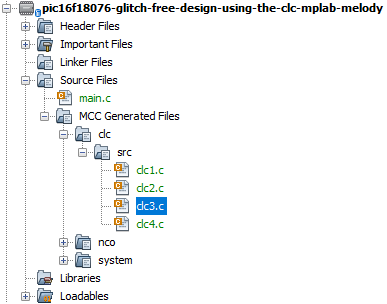
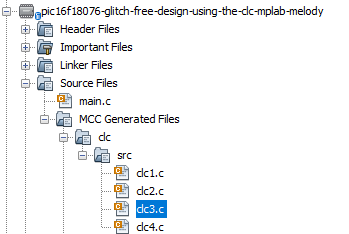
MPAE-14630: Updated Readme, images, and code

Changed region(s): [[0.0, 0.0, 1.0, 1.0]]

diff --git a/main.c b/main.c
@@ -32,50 +32,38 @@
 */
 #include "mcc_generated_files/system/system.h"
 
-void wait_initialize(void)
-{
-    NCO1ACCL = 0x00; //Clear NCO accumulator
-    NCO1ACCH = 0x00;
-    NCO1ACCU = 0x00;
-    PIR2bits.CLC2IF = 0; //Clear CLC2 Interrupt Flag
-    NCO1CONbits.EN = 1; // Enable NCO Module
-}
-/*
-    Main application
-*/
-
 int main(void)
 {
     SYSTEM_Initialize();
     
-    NCO1CONbits.EN = 0;  //Disable NCO module
+    NCO1CONbits.EN = 0;  //disable NCO module
         
-    NCO1INCU = 0x0F;
-    NCO1INCH = 0xFF;
-    NCO1INCL = 0xFF;     //set NCO increment to 0x0FFFFF, or 1048575
-    // If using interrupts in PIC18 High/Low Priority Mode you need to enable the Global High and Low Interrupts 
-    // If using interrupts in PIC Mid-Range Compatibility Mode you need to enable the Global and Peripheral Interrupts 
-    // Use the following macros to: 
-
-    // Enable the Global Interrupts 
-    //INTERRUPT_GlobalInterruptEnable(); 
-
-    // Disable the Global Interrupts 
-    //INTERRUPT_GlobalInterruptDisable(); 
-
-    // Enable the Peripheral Interrupts 
-    //INTERRUPT_PeripheralInterruptEnable(); 
-
-    // Disable the Peripheral Interrupts 
-    //INTERRUPT_PeripheralInterruptDisable(); 
-
+    NCO1INCU = 0x00;
+    NCO1INCH = 0x00;
+    NCO1INCL = 0x01;     //set increment to 0x000001, or 1
+    
     while(1)
     {
-        wait_initialize();
-        if (PIR2bits.CLC2IF == 1){ // 3 instruction sets (12 clk pulses)... 1 for selecting register, 2 for if statement
-            LATAbits.LATA6 = 1;
-            NCO1CONbits.EN = 0; // 2 instruction sets (8 clk pulses)
-//            wait_for_pulse();
-        }
+        //wait initialize
+        NCO1ACCL = 0x00; 
+        NCO1ACCH = 0x00; 
+        NCO1ACCU = 0x00;  //clear accumulator
+
+        NCO1CONbits.EN = 1; //enable NCO module
+        PIR2bits.CLC2IF = 0; //clear CLC2IF interrupt flag
+        
+        //wait for pulse
+        while(!PIR2bits.CLC2IF); //wait until interrupt flag is set
+            //save accumulator value
+            int8_t result2 = NCO1ACCU; 
+            int8_t result1 = NCO1ACCH;
+            int8_t result0 = NCO1ACCL;
+
+            //process accumulator values to make a 20-bit value
+            int24_t measurement = ((int24_t)result2 << 16); 
+            measurement = measurement + ((int16_t)result1 << 8);
+            measurement = measurement + result0;
+
+        NCO1CONbits.EN = 0; //disable NCO module
     }    
 }

diff --git a/README.md b/README.md
@@ -24,7 +24,7 @@ This example shows how to configure the Configurable Logic Cell (CLC) Peripheral
 ## Hardware Used
 - PIC16F18076 Curiosity Nano [(DM182029)](https://www.microchip.com/Developmenttools/ProductDetails/DM182029) <!-- update this line to have the correct DM number and the correct link to that -->
 <!-- Should I include the Saleae since it can be used to verify if the example works? -->
-<!-- Should I include the scope since it can be used to verify id the example works? -->
+<!-- Should I include the scope since it can be used to verify if the example works? -->
 
 ## Setup
 The hardware for this code example is just the PIC16F18076 Curiosity Nano Board since it has the NCO and CLC modules that are required. Figure 1 shows how to create the Glitch-Free signal by using CLC1, CLC2, and CLC3.  CLC4 will be passing through the system clock.  Most of the setup will be done through the MPLABX and Melody interfaces. 
@@ -259,21 +259,67 @@ Then open up the file.  On line 62, update the value from 0x0 to 0x4 as shown in
 
 #### Remaining Application Code
 
+Finally open up the main.c program from the projects tab (see Figure 19 - line call 'main.c'). Insert the following code inside the 'int main(void)' loop after the 'SYSTEM_Initialize();' line but above the 'while(1)' loop:
+    
+    NCO1CONbits.EN = 0;  //disable NCO module
+        
+    NCO1INCU = 0x00;
+    NCO1INCH = 0x00;
+    NCO1INCL = 0x01;     //set increment to 0x000001, or 1
+    
+Insert the following code inside the  'while(1)' loop:
 
-*************** RESUME WORK HERE ON MONDAY JULY 18th ************************
+        //wait initialize
+        NCO1ACCL = 0x00; 
+        NCO1ACCH = 0x00; 
+        NCO1ACCU = 0x00;  //clear accumulator
 
-Finally open up the main.c program from the projects tab (see Figure 19).  Delete tCopy and paste the following code 
+        NCO1CONbits.EN = 1; //enable NCO module
+        PIR2bits.CLC2IF = 0; //clear CLC2IF interrupt flag
+        
+        //wait for pulse
+        while(!PIR2bits.CLC2IF); //wait until interrupt flag is set
 
+            //save accumulator value
+            int8_t result2 = NCO1ACCU; 
+            int8_t result1 = NCO1ACCH;
+            int8_t result0 = NCO1ACCL;
 
+            //process accumulator values to make a 20-bit value
+            int24_t measurement = ((int24_t)result2 << 16); 
+            measurement = measurement + ((int16_t)result1 << 8);
+            measurement = measurement + result0;
 
-- copy in the following code into the main.c file (also can see the main.c file in this example)
+        NCO1CONbits.EN = 0; //disable NCO module
 
-<!-- Explain how to connect hardware and set up software. Depending on complexity, step-by-step instructions and/or tables and/or images can be used -->
+If inserting the above code is confusing, look through the files included in this code example to see exactly where the lines of code should go.
+
+Then program the device by clicking on the "Make and Program Device Main Project" from the taskbar at the top (Figure 21).
+
+*Figure 21 -  Make and Program Device Main Project Button*
+
+![Make and Program Device Main Project Button](images/Make_and_Program_Device_Main_Project_Button.png)
+
+Wait for the Output tab to show 'Programming Complete' (Figure 22) then proceed to Operation.
+
+*Figure 22 -  Programming Complete*
+
+![Programming Complete](images/Programming_Complete.png)
 
 ## Operation
 
-<!-- Explain how to operate the example. Depending on complexity, step-by-step instructions and/or tables and/or images can be used -->
+This example requires an external asynchronous signal source in order for it to behave correctly.  This can be acheived by using a function generator, another microcontroller, or any other method of producing a high or low signal.
+
+Before starting the asynchronous signal, ensure that there is a common ground between the devices, and that the input for the CLC is attached to the RA1 pin.
+
+The following image shows what the various logic should do during a single asynchronous pulse.
+
+*Figure 23 -  Glitch-Free Clock Output*
+
+![Glitch-Free Clock Output](images/Glitch\-Free_Clock_Output.png)
+
+<!-- NOTE: The Asynchronous signal used for this example was another cnano board.  It followed the same timing configuration as the above cnano but for the pin output it only had RA3 toggling on and off.  In between the high and low signal, there was 1us delay. Between the low and high signal, there was a 50us delay. Then the RA3 pin (of the asynchronous signal) was connected to the RA1 pin (of the CLC modules). -->
 
 ## Summary
 
-This example has demonstrated how to create a glitch-Free design using the CLC peripherals on the PIC16F18076 device.
+This example has demonstrated how to create a glitch-free design using the CLC peripherals on the PIC16F18076 device.
